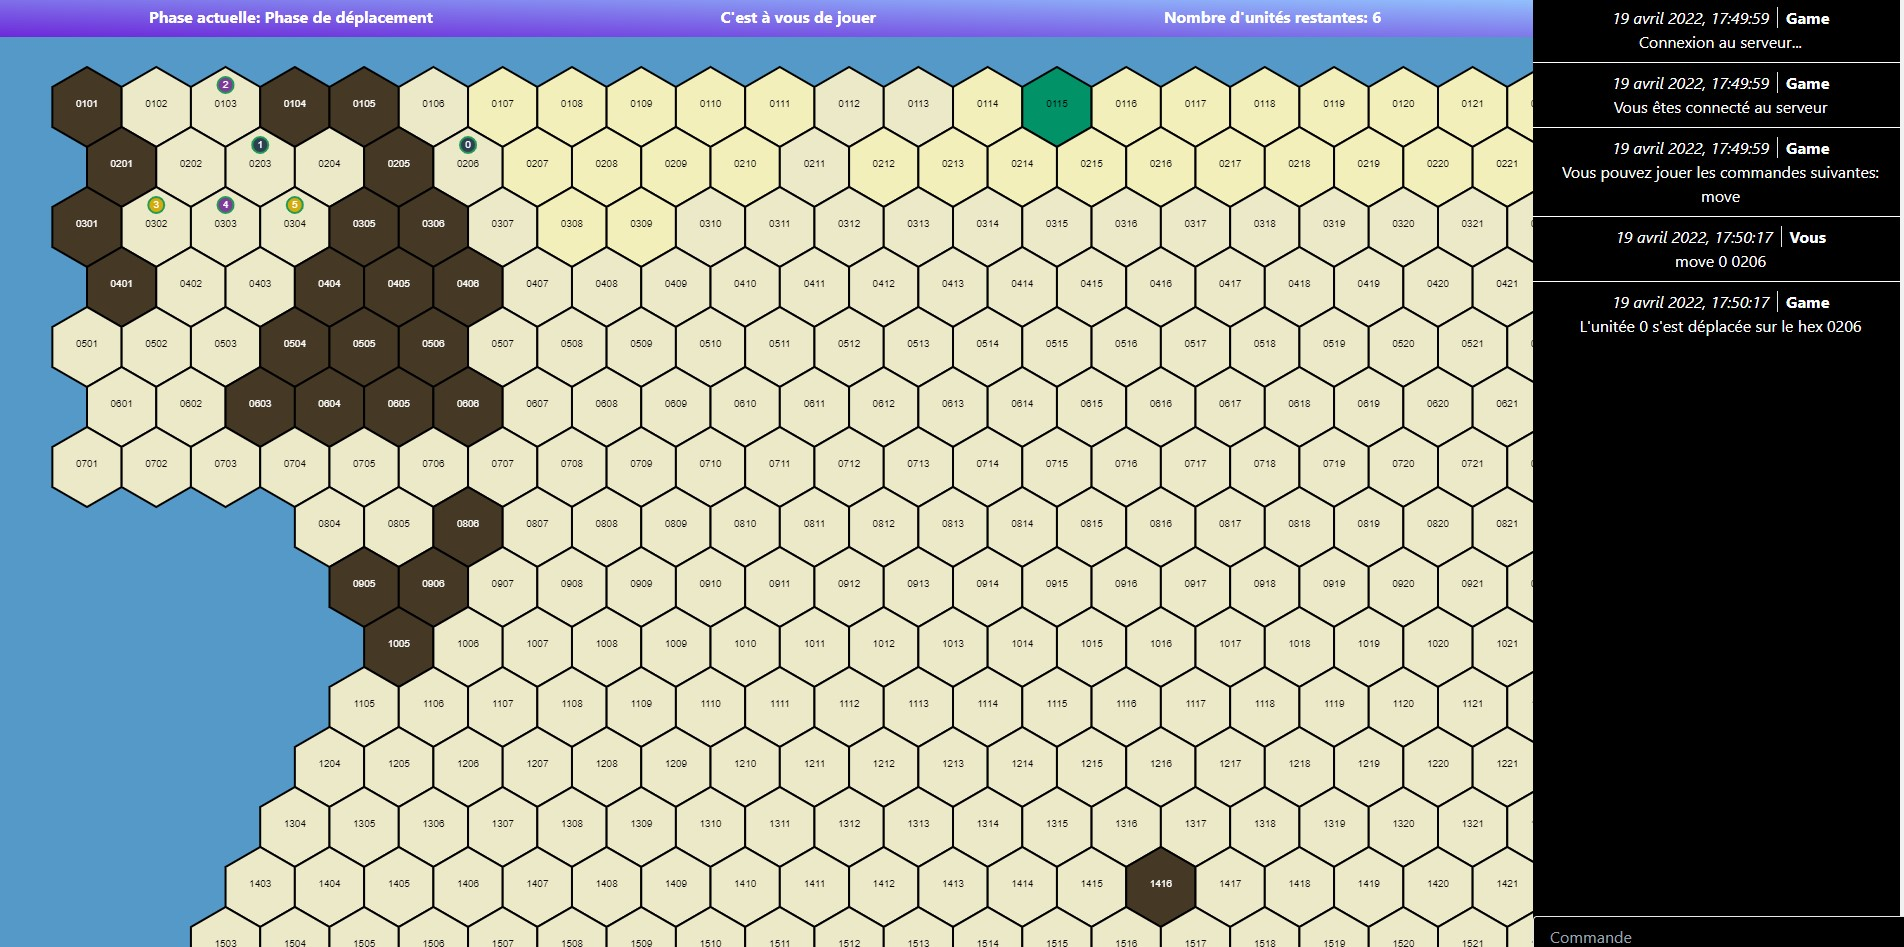
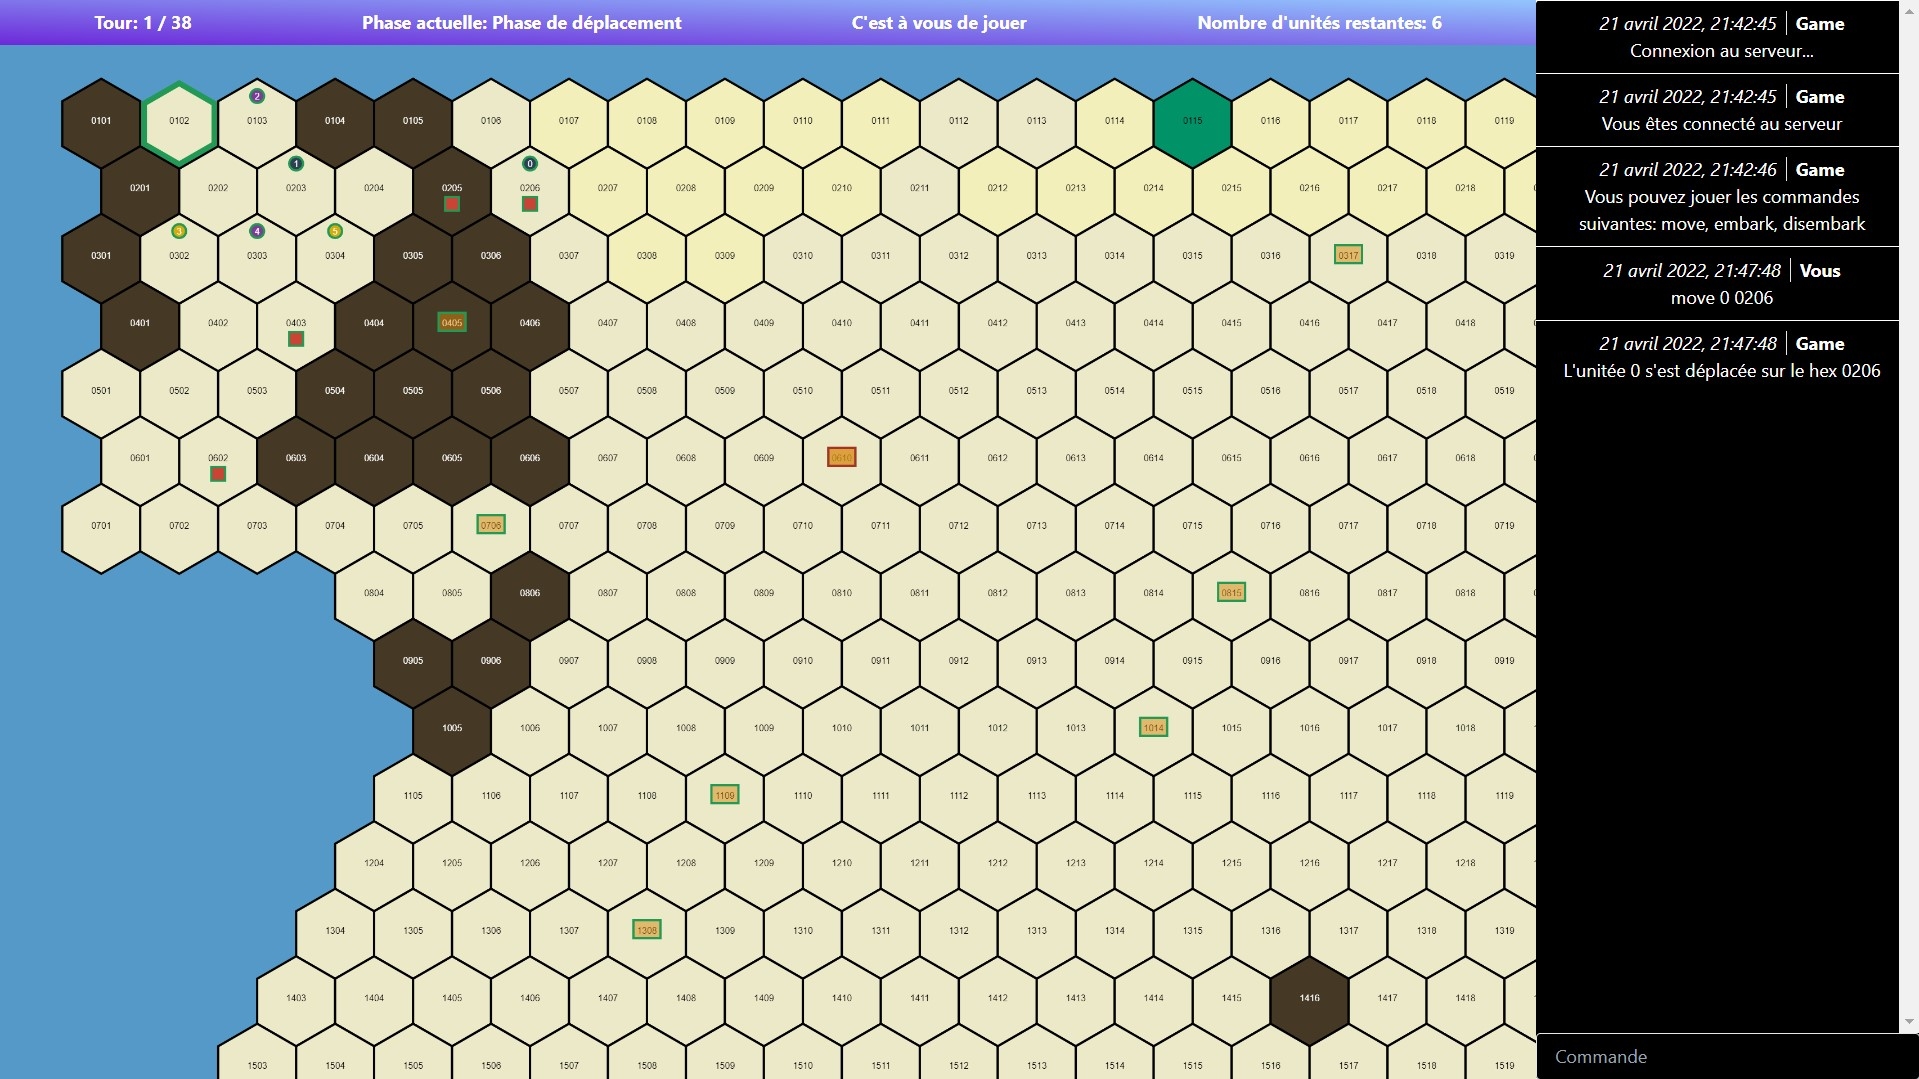
Updated screenshots and modified a bit this section

Changed region(s): [[0.0, 0.0, 1.0, 1.0]]

diff --git a/docs/report/besoins.tex b/docs/report/besoins.tex
@@ -292,37 +292,46 @@ Les joueurs devront se connecter sur un serveur afin d'accéder à la partie. Le
 Le serveur avertira l'utilisateur lors d'une mauvaise utilisation de l'interface et des requêtes parasites pour le serveur.
 
 
-\begin{figure}[H]
-\centering
-\includegraphics[scale=0.35]{data/plateau_du_jeu.jpg}
-\caption{Plateau du jeu Desert Fox}.
-\end{figure}
+
 
 La carte s'affiche quand les deux joueurs sont connectés. Ici le joueur 1 peut commencer à jouer
-. On peut voir en haut de la page, une barre qui affiche la phase actuelle sur 19, le tour  et le nombre d'unités restantes.
+. Nous pouvons voir en haut de la page, une barre qui affiche la phase actuelle sur 19, le tour  et le nombre d'unités restantes.
 
+\begin{figure}[H]
+    \centering
+    \includegraphics[scale=0.35]{data/plateau_du_jeu.png}
+    \caption{Plateau du jeu Desert Fox}.
+\end{figure}
+
+En bas de la carte, Nous pouvons observer une légende, en bas à gauche.\\
 
 \begin{figure}[H]
 \centering
-\includegraphics[scale=0.35]{data/justification2.jpg}
-\caption{Bas de la carte et légende de la carte du jeu}.
+\includegraphics[scale=0.35]{data/Bas_de_map.png}
+\caption{Bas de la carte du jeu}.
 \end{figure}
-En bas de la carte, on peut observer une légende, en bas à gauche.\\
+\begin{figure}[H]
+    \centering
+    \includegraphics[scale=0.35]{data/Map_Legend.png}
+    \caption{Légende de la carte du jeu}.
+\end{figure}
+
+Voici la page du joueur 1 qui peut jouer.\\
 \begin{figure}[H]
 \centering
 \includegraphics[scale=0.4]{data/player_1_acces.jpg}
 \caption{Barre d'information du joueur 1}.
 \end{figure}
 
-Voici la page du joueur 1 qui peut jouer.\\
-
+Voici la page du joueur 2 qui doit attendre l'adversaire de jouer.\\
 \begin{figure}[H]
 \centering
 \includegraphics[scale=0.35]{data/joueur_2.jpg}
 \caption{Barre d'information du joueur 2}.
 \end{figure}
 
-Voici la page du joueur 2 qui doit attendre l'adversaire de jouer.
+Le joueur qui peut jouer peut faire bouger son unité dans le terminal a droite de l'image.
+Nous pouvons voir que l'unité 0 s'est déplacé de l'hexagone \lstinline{0102} à \lstinline{0206}. Le déplacement est valide car on ne dépasse pas le mouvement alloué de l'unité (MA).\\
 
 \begin{figure}[H]
 \centering
@@ -330,40 +339,45 @@ Voici la page du joueur 2 qui doit attendre l'adversaire de jouer.
 \caption{Mouvement de l'unité \lstinline{0} vers l'hexagone \lstinline{0206}}.
 \end{figure}
 
-Le joueur qui peut jouer peut faire bouger son unité dans le terminal a droite de l'image.
-On peut voir que l'unité 0 s'est déplacé de l'hexagone \lstinline{0102} à \lstinline{0206}. Le déplacement est valide car on ne dépasse pas le mouvement alloué de l'unité (MA).\\
-
+Le joueur peut afficher des informations concernant ses unités dans le terminal.
+En tapant \og units \fg{}, le joueur à toutes ses unités présent avec le mouvement point et  les points de vies.\\
 \begin{figure}[H]
 \centering
 \includegraphics[scale=0.6]{data/info_units.jpg}
 \caption{Terminal qui donne les informations des unités du joueur 1 }.
 \end{figure}
 
-Le joueur peut afficher des informations concernant ses unités dans le terminal.
-En tapant \og units \fg{}, le joueur à toutes ses unités présent avec le mouvement point et  les points de vies.
-
+Quand le joueur a terminé son tour, il doit écrire dans le terminal \og done \fg{}
+le joueur ne pourra que communiquer par chat à l'adversaire et l'adversaire peuvent continuer à jouer.\\
 \begin{figure}[H]
 \centering
 \includegraphics[scale=0.35]{data/fin_tour.jpg}
 \caption{Fin du tour pour le joueur 1}.
 \end{figure}
 
-Quand le joueur a terminé son tour, il doit écrire dans le terminal \og done \fg{}
-le joueur ne pourra que communiquer par chat à l'adversaire et l'adversaire peuvent continuer à jouer.\\
 
+Le joueur peut aussi aficher les entités, par exemple les unités, les bases, les dumps et les unités de soutien qui sont present dans une hexagone. 
+Cela est possible grace a la commande {\tt hex}, qui prend en parametre un identifiant d'hexagone.Voici un exemple :\\
+
+\begin{figure}[H]
+    \centering
+    \includegraphics[scale=0.6]{data/hex_command.jpg}
+    \caption{Utilisation de la commande hex}.
+\end{figure}
+
+Les deux joueurs peuvent communiquer ensemble  à l'aide du terminal, le joueur doit écrire au dans le terminal \og message \fg{} puis écrit son message.\\
 \begin{figure}[H]
 \centering
 \includegraphics[scale=0.6]{data/chat.jpg}
 \caption{Communication entre deux joueurs}.
 \end{figure}
-Les deux joueurs peuvent communiquer ensemble  à l'aide du terminal, le joueur doit écrire au dans le terminal \og message \fg{} puis écrit son message.
 
+Un message d'erreur s'affiche dans le terminal si le joueur écrit  des mauvaises commandes.
+Par exemple, le joueur oublie les arguments, ou donne un mauvais hexagone.\\
 
 \begin{figure}[H]
 \centering
 \includegraphics[scale=0.6]{data/erreur.jpg}
 \caption{Exemple de mauvaises commandes}.
 \end{figure}
-Un message d'erreur s'affiche dans le terminal si le joueur écrit  des mauvaises commandes.
-Par exemple, le joueur oublie les arguments, ou donne un mauvais hexagone.
 
